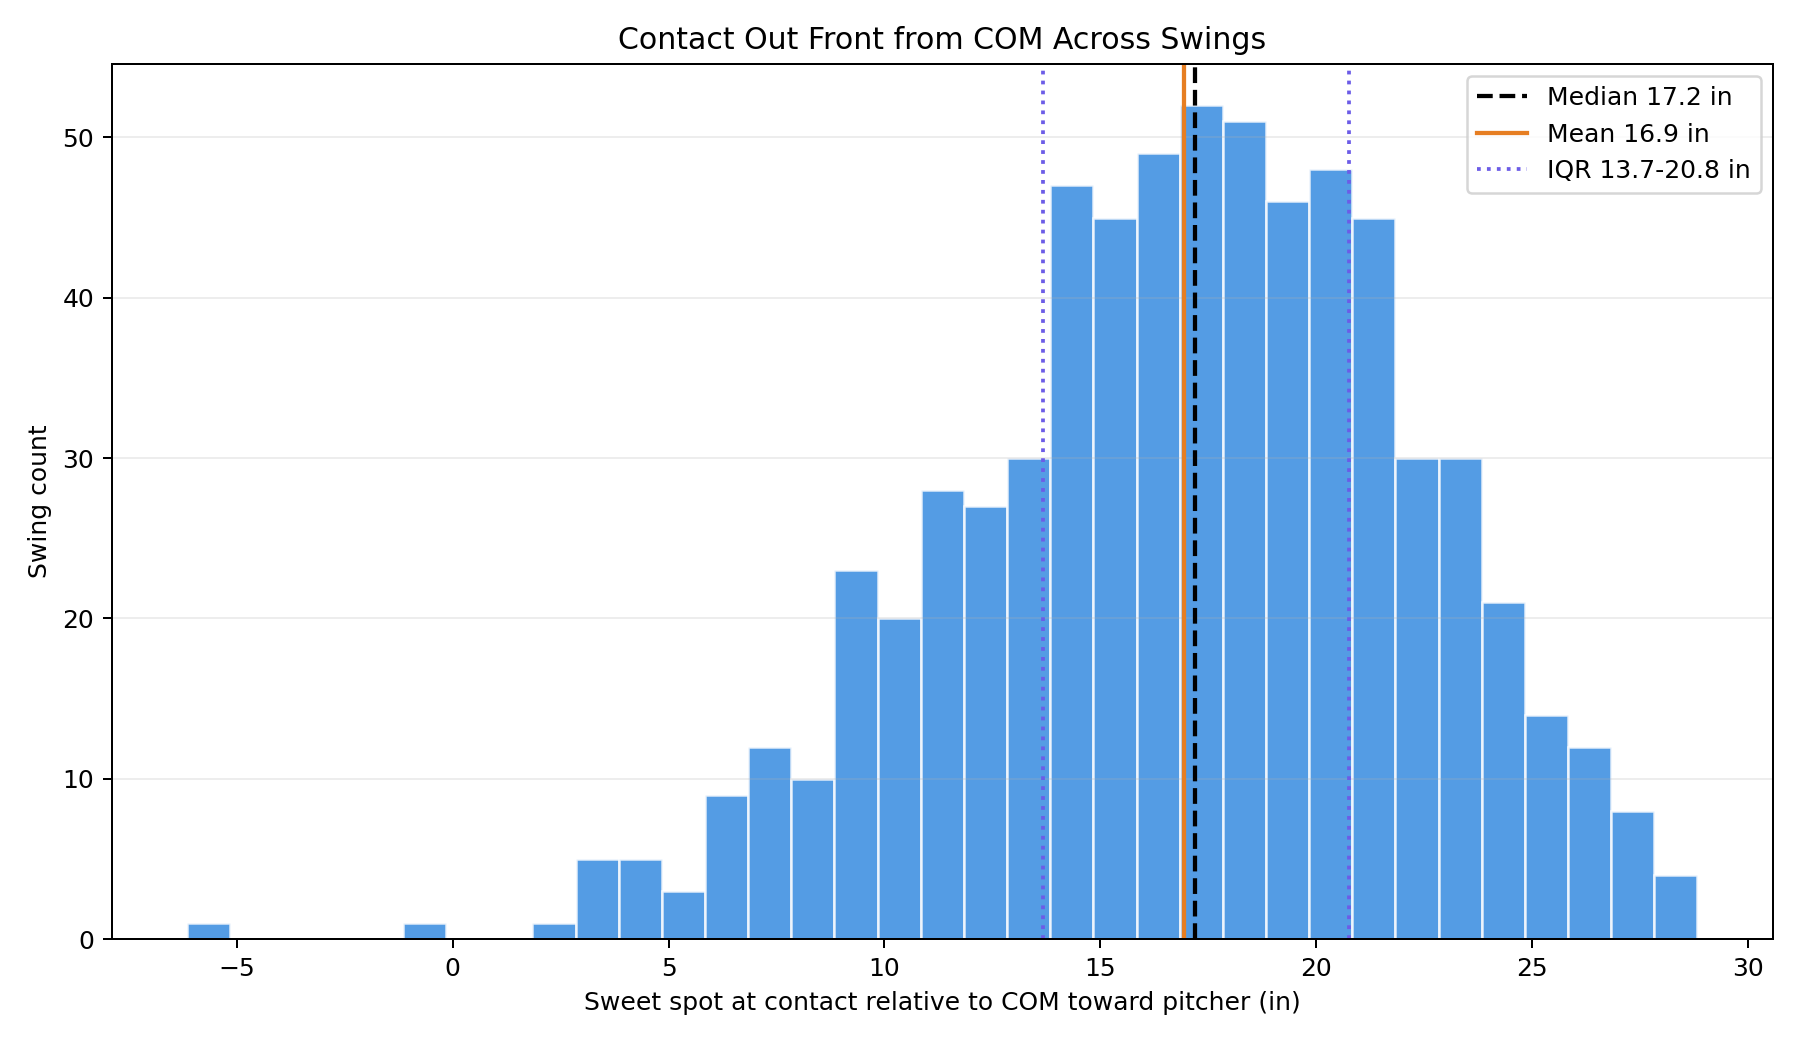
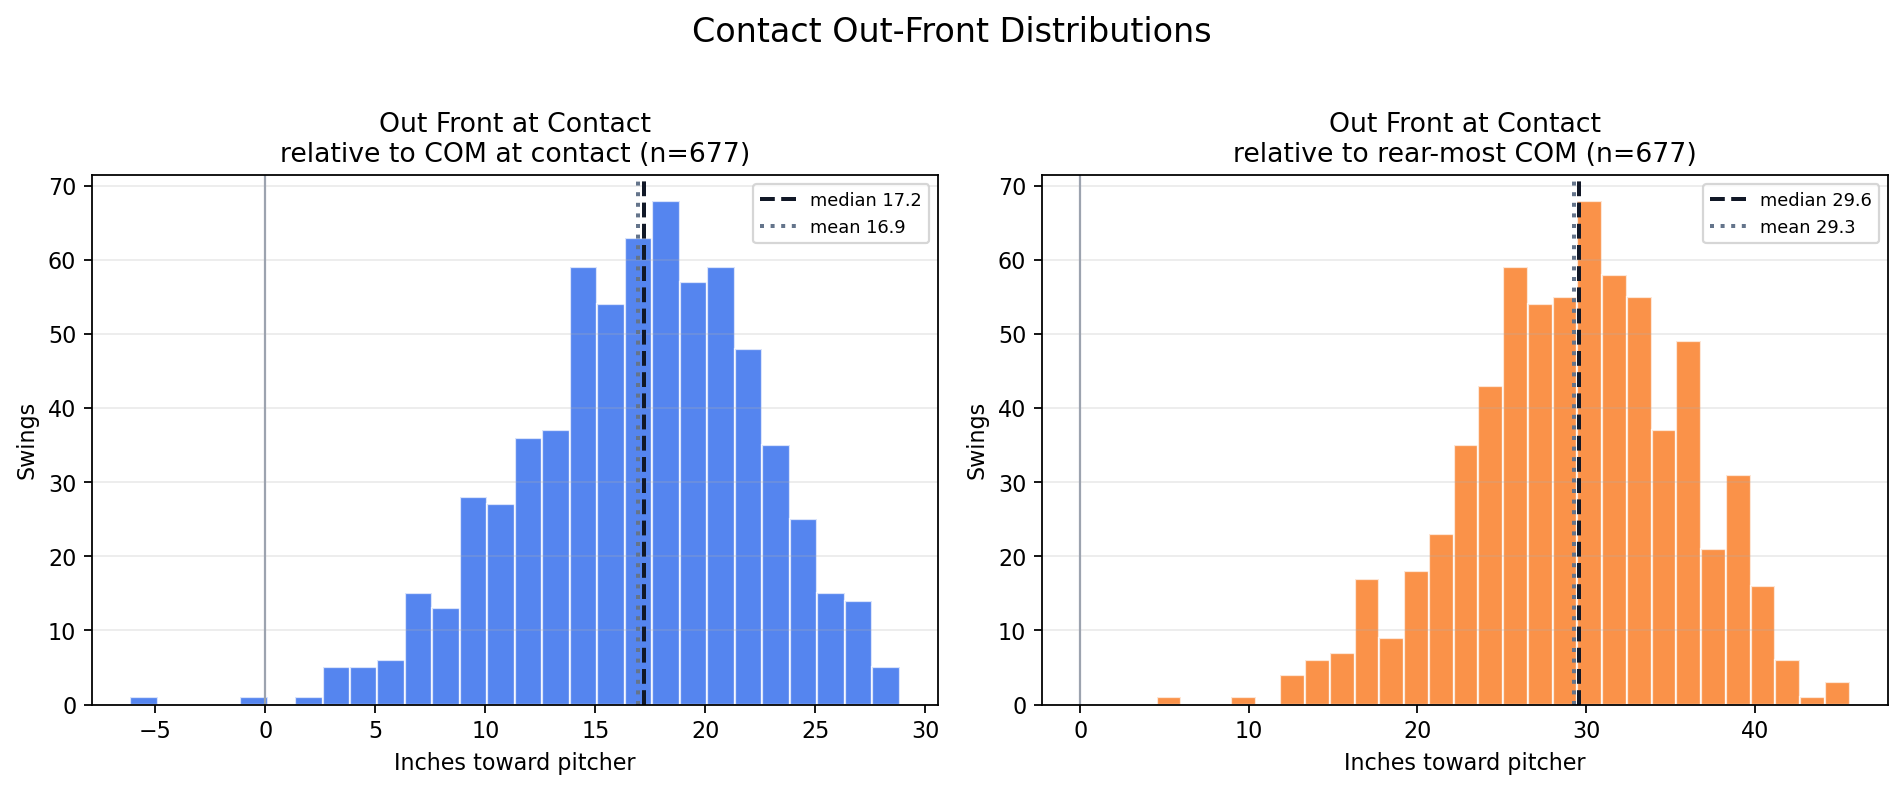
Clean up bat path figures

diff --git a/OBP-Biomechanical-Swing-Viewer/README.md b/OBP-Biomechanical-Swing-Viewer/README.md
@@ -106,7 +106,7 @@ Marker-derived contact attack angle validated strongly against OBP's attack angl
 
 See:
 
-- [Attack angle contact comparison](Figures/bat_path/attack_angle_contact_comparison.png)
+- [Attack angle contact comparison](Figures/diagnostics/attack_angle_contact_comparison.png)
 - [Marker AA vs OBP contact AA diagnostic](Figures/diagnostics/marker_aa_vs_attack_angle_contact_x.png)
 
 ## Figures
@@ -115,12 +115,11 @@ Selected figures are included in [Figures](Figures). The files in this folder we
 
 ### Bat Path and Contact Metrics
 
-- [Attack zone time distribution](Figures/bat_path/attack_zone_time_distribution.png)
-- [Ideal-zone COM-to-barrel range distribution](Figures/bat_path/ideal_zone_com_to_barrel_range_distribution.png)
+- [Attack-angle zone distributions](Figures/bat_path/attack_angle_zone_distributions.png)
+
 - [Contact metrics distributions](Figures/bat_path/contact_metrics_distributions.png)
 - [Contact out-front distribution](Figures/bat_path/contact_out_front_distribution.png)
 - [Top hitters by attack zone time](Figures/bat_path/top_hitters_attack_zone_time.png)
-- [Attack angle contact comparison](Figures/bat_path/attack_angle_contact_comparison.png)
 
 ### Force Timing
 
